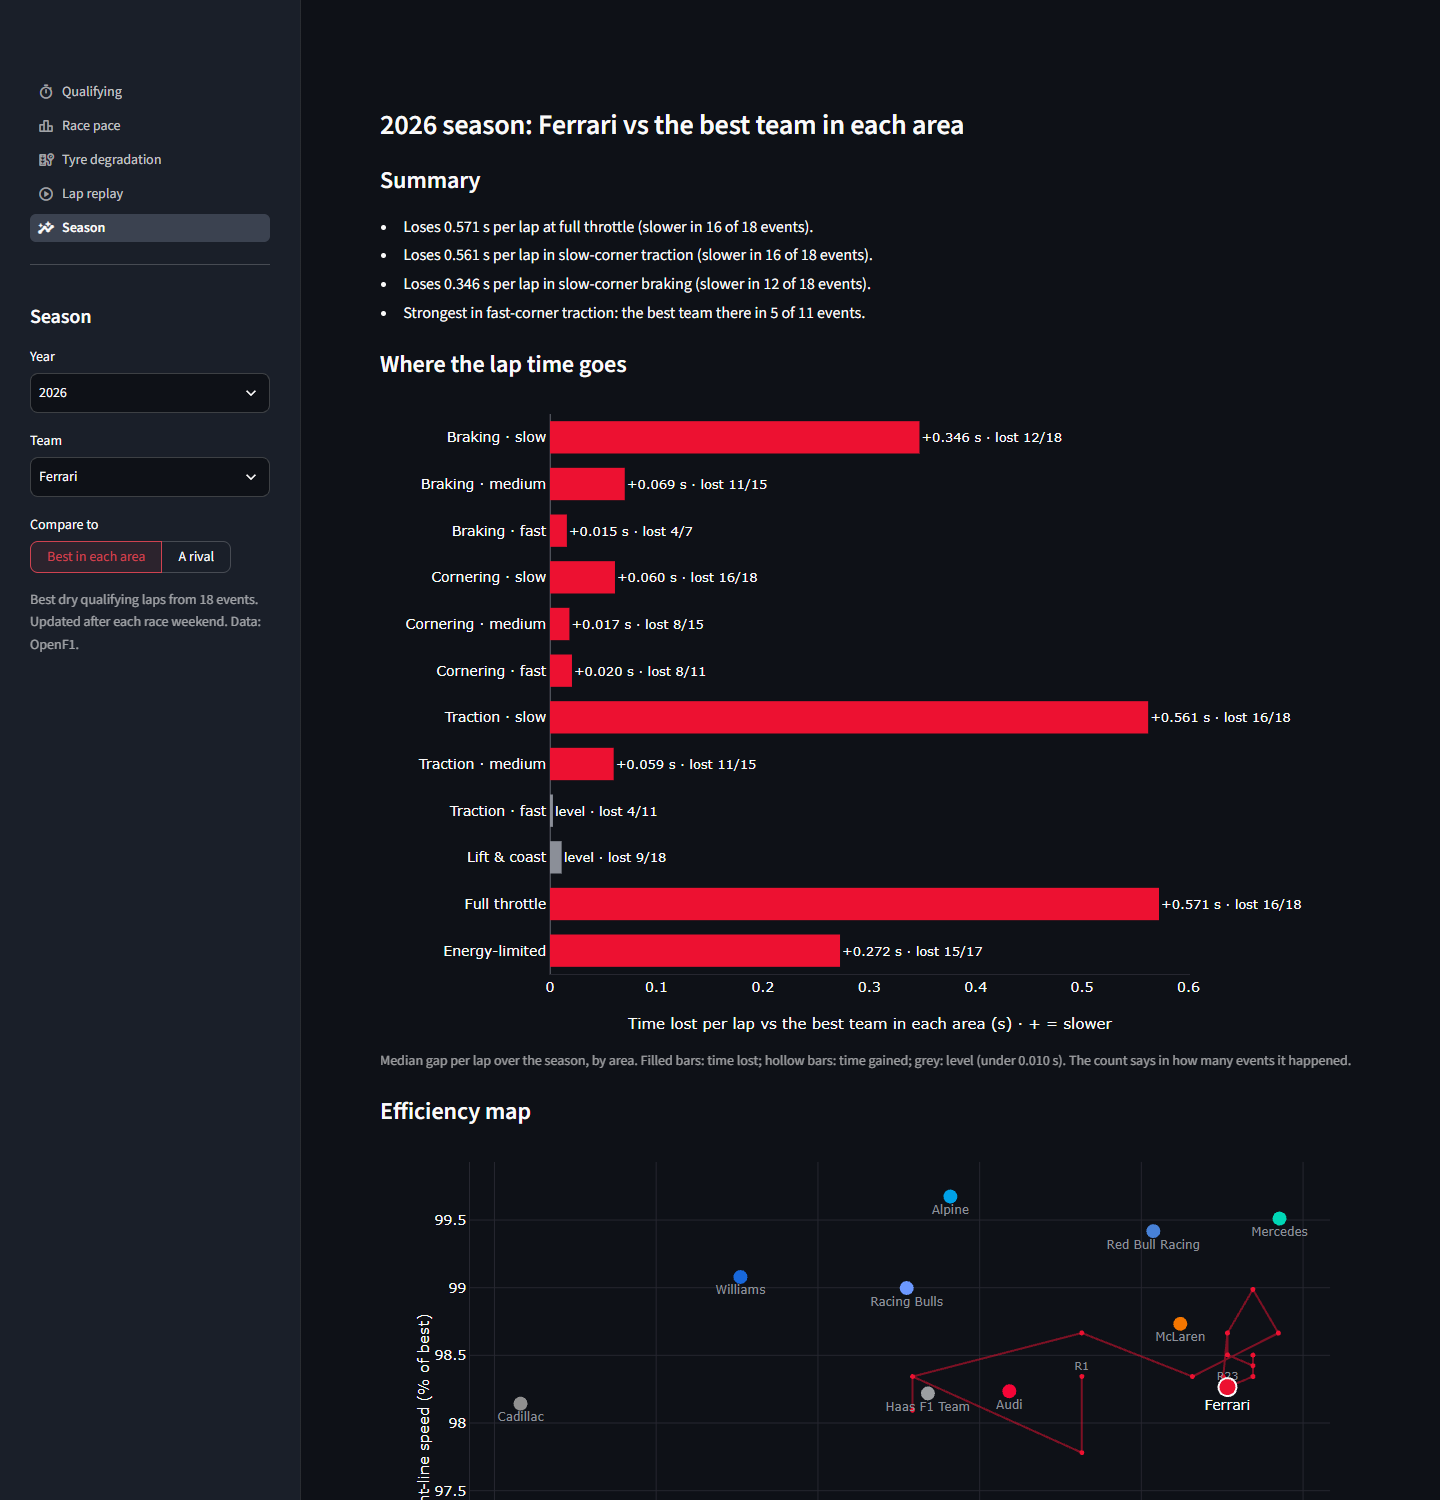
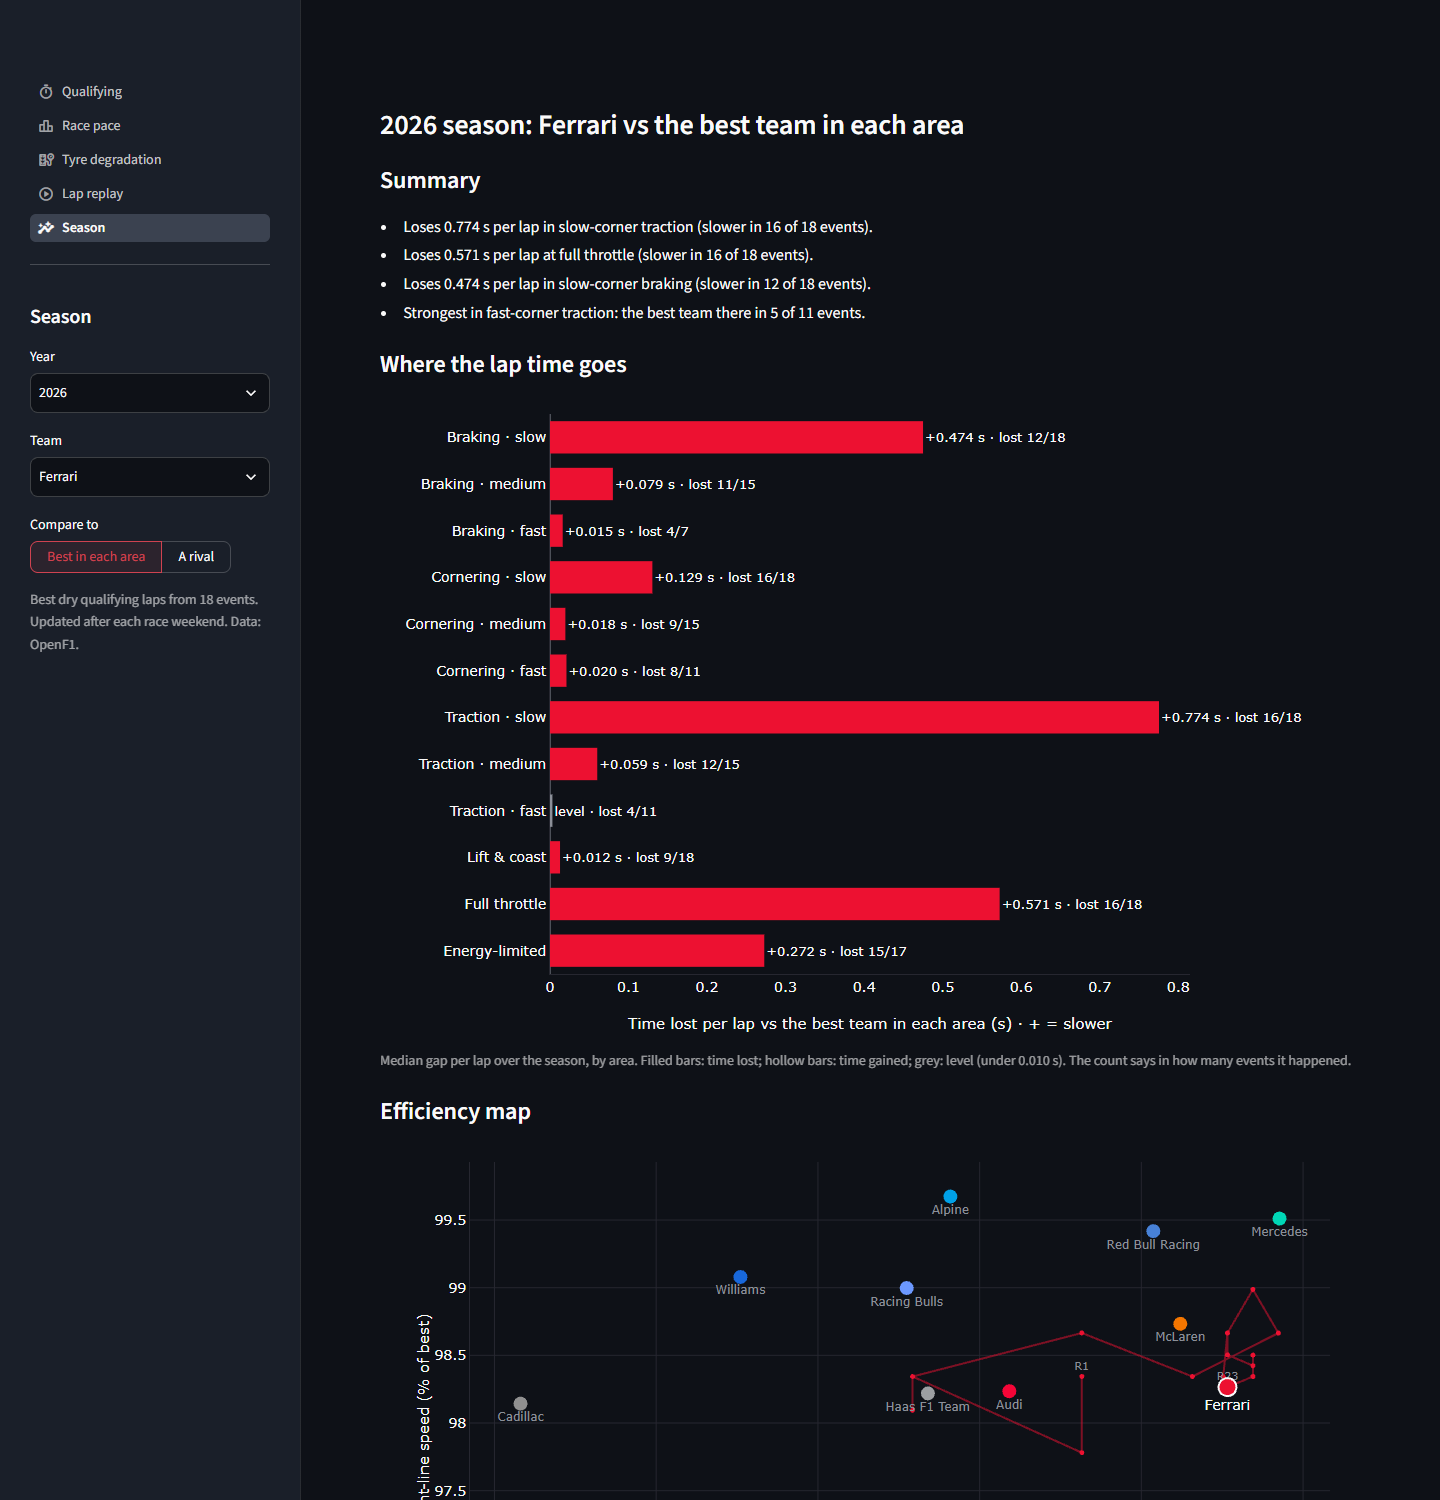
Season: 2026 rebuilt with linked corners split; docs updated

diff --git a/docs/HOW_IT_WORKS.md b/docs/HOW_IT_WORKS.md
@@ -389,7 +389,7 @@ At every metre: the median speed, throttle and position of the 11 laps, and a br
 ### Step 3: the phase map (`phase_map`)
 
 - A **corner complex** is any stretch where the field is off full throttle. Complexes less than `MIN_FULL_GAP_M` (50 m) apart are joined (a chicane is one complex); dips shorter than `MIN_COMPLEX_M` (20 m) are sensor wobble.
-- Inside a complex: **lift & coast** before the brake, **braking**, **cornering** from brake release (or from the lift, if there's no braking) to where the throttle reaches `TRACTION_START_PCT` (10 %) after the slowest point, then **traction** until full throttle.
+- Inside a complex: **lift & coast** before the brake, **braking**, **cornering** from brake release (or from the lift, if there's no braking) to where the throttle reaches `TRACTION_START_PCT` (10 %) after the slowest point, then **traction** until full throttle. A complex with several brake zones (a chicane) is several corners: each brake zone starts its own, split from the next at the fastest point between them (`brake_zones`, `label_corner`). Before this fix, everything from the first brake to the last was "braking", which put up to 46 % of a Mexico City lap in braking; now it's 10-29 % of a lap (Monaco highest).
 - **Band** (`band`): slow under 120 km/h, fast from 200 km/h (analysis.py's bands). Within `BAND_LEEWAY_KMH` (30) of an edge, braking decides, from Flow Racers' braking-based corner types: a corner needing at most `MINIMAL_BRAKING_M` (30 m, a tap) is fast; one slowed for by `HEAVY_DROP_KMH` (150) or more is slow.
 - On straights of at least 300 m, `analysis.straight_metrics` judges the field's speed: if it **drops** after its peak, the part after the peak is **energy-limited**; if it **flattens**, the level part at the end is.
 
@@ -403,7 +403,7 @@ Per area: the median over events of the team's time minus the fastest team's (or
 
 ### The offline build (`build_season`)
 
-`python season.py 2026` walks the season's race weekends (testing skipped), skips events already saved, and writes `seasons/2026/<round>_<city>.csv` plus `excluded.csv`. Wet sessions and teams without telemetry are left out for good; a missing qualifying session (the weekend may still be running) and download errors are retried next time. If the faster driver's lap has no telemetry, the teammate's lap is used. It ends with the Ferrari check. The page never downloads anything, and doesn't cache the files either: a cached copy could outlive a push that adds a race (the 25 Nov RPM lesson in section 11).
+`python season.py 2026` walks the season's race weekends (testing skipped), skips events already saved, and writes `seasons/2026/<round>_<city>.csv` plus `excluded.csv`. Wet sessions and teams without telemetry are left out for good; a missing qualifying session, one that ended less than `QUALI_SETTLE_H` (1 hour) ago, and download errors are retried next time. Events are matched by name, not round number, so if OpenF1 drops a cancelled meeting and renumbers the rest, nothing is saved twice. If the faster driver's lap has no telemetry, the teammate's lap is used. It ends with the Ferrari check. The page never downloads anything, and doesn't cache the files either: a cached copy could outlive a push that adds a race (the 25 Nov RPM lesson in section 11).
 
 ### Tests
 
@@ -411,7 +411,7 @@ Per area: the median over events of the team's time minus the fastest team's (or
 
 ### Honest weaknesses of the season breakdown
 
-- **Where, not why:** time is counted where it's spent. A poor exit also slows the next straight, and arriving slower at a corner shortens braking, so Ferrari "gains" 0.35 s in slow-corner braking against Mercedes partly *because* it's slower on the straights.
+- **Where, not why:** time is counted where it's spent. A poor exit also slows the next straight, and arriving slower at a corner shortens braking, so Ferrari "gains" 0.32 s in slow-corner braking against Mercedes partly *because* it's slower on the straights.
 - **Linked corners are banded by their slowest point** and flat-out corners count as straight, so 7 of 18 events in 2026 have no fast-corner data (Austin's esses and Shanghai's T7-8 are probably merged with slower corners).
 - **Energy-limited is generous:** it includes cars sitting at their drag-limited top speed, not only cars out of battery.
 - **One lap per team per event,** from whichever driver was faster: a driver's mistake moves the team's numbers.
